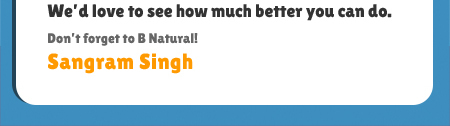
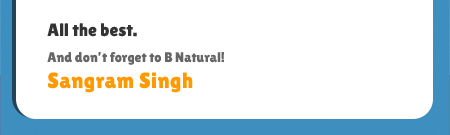
fixing email layout and images

diff --git a/protected/views/mail/thankyou.php b/protected/views/mail/thankyou.php
@@ -70,7 +70,7 @@
           </table></td>
         </tr>
         <tr>
-          <td width="450" height="50" align="left" valign="top"><img src="https://dubfest.bnatural.in/images/mailers/image18.jpg" width="450" height="50" style="border:0 none;display:block"/></td>
+          <td width="450" height="50" align="left" valign="top"><img src="https://dubfest.bnatural.in/images/mailers/message_thankyou.jpg" width="450" height="50" style="border:0 none;display:block"/></td>
         </tr>
         <tr>
           <td width="450" height="186" align="left" valign="top"><table width="450" border="0" cellspacing="0" cellpadding="0">

diff --git a/protected/controllers/SiteController.php b/protected/controllers/SiteController.php
@@ -75,9 +75,9 @@ class SiteController extends Controller
     public function actionMail(){
 
         Mailer::SendAcknowledgement(array(
-            'to' => 'sherin@position2.com',
+            'to' => 'pixces@yahoo.com',
             'data' => array(
-                'name' => 'Sherin Jacob'
+                'name' => 'Zainul Abdeen'
             )
         ));
     }
